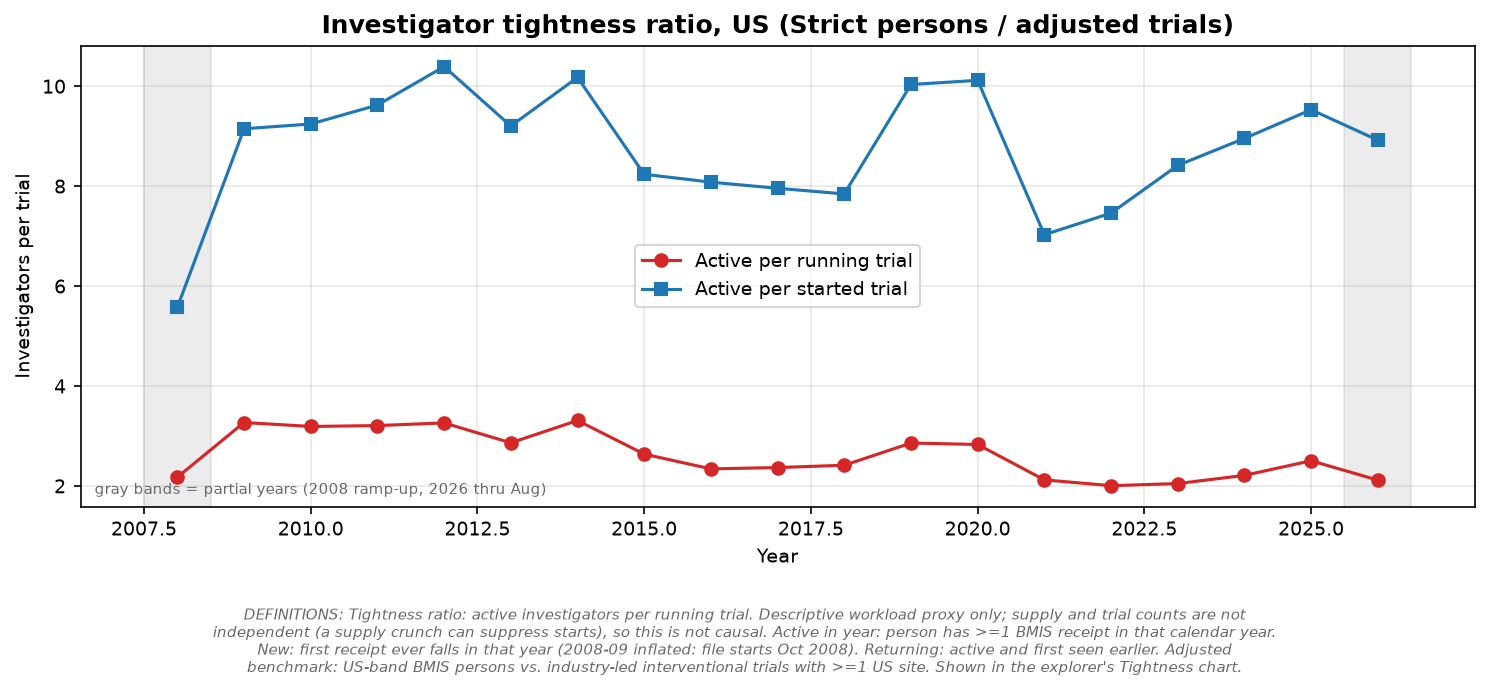
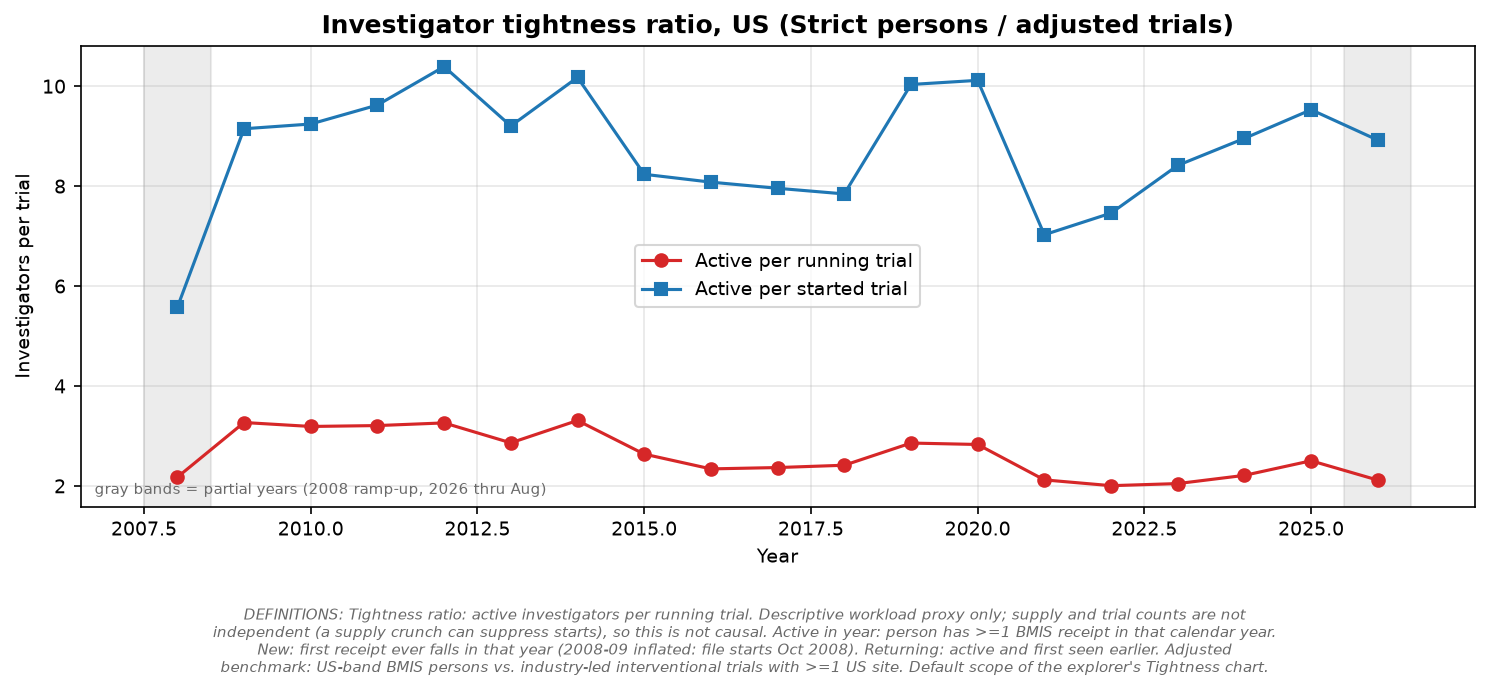
Tightness scope toggle (adjusted/unadjusted)
Explorer Tightness chart and KPI gain an Adjusted/Unadjusted toggle.
Unadjusted is starts-only (running-trial denominator exists for the
US subset only). Scope definitions updated in the pipeline and baked
into the manifest + static chart captions. Full pipeline rebuild
green (217s); revert timestamp-only deck/parquet churn.

Changed region(s): [[0.1545, 0.9408, 0.8341, 0.9711]]

diff --git a/explorer/src/App.tsx b/explorer/src/App.tsx
@@ -220,6 +220,7 @@ export default function App() {
   const [newret, setNewret] = useState<{ x: number; bottom: number; top: number }[]>([]);
 
   const [tight, setTight] = useState<LineSeries[]>([]);
+  const [tightScope, setTightScope] = useState<'adjusted' | 'unadjusted'>('adjusted');
   const [bins, setBins] = useState<{ category: string; v: number }[]>([]);
   const [pbins, setPbins] = useState<{ category: string; v: number }[]>([]);
   const [ret, setRet] = useState<VintageRow[]>([]);
@@ -330,15 +331,16 @@ export default function App() {
               ` NULLIF(CAST(SUM(n_active) AS DOUBLE), 0) AS v FROM active_bins` +
               ` WHERE version = '${v}' AND year = ${LATEST_FULL}`,
           ),
-          query<{ v: number | null }>(
-            `SELECT CAST(per_running AS DOUBLE) AS v FROM tightness WHERE version = '${v}'` +
-              ` AND scope = 'adjusted' AND year = ${LATEST_FULL}`,
+          query<{ pr: number | null; ps: number | null }>(
+            `SELECT CAST(per_running AS DOUBLE) AS pr, CAST(per_start AS DOUBLE) AS ps` +
+              ` FROM tightness WHERE version = '${v}'` +
+              ` AND scope = '${tightScope}' AND year = ${LATEST_FULL}`,
           ),
 
           query<TightRow>(
             `SELECT CAST(year AS INTEGER) AS y, CAST(per_running AS DOUBLE) AS pr,` +
               ` CAST(per_start AS DOUBLE) AS ps FROM tightness WHERE version = '${v}'` +
-              ` AND scope = 'adjusted' AND year BETWEEN ${y0} AND ${y1} ORDER BY 1`,
+              ` AND scope = '${tightScope}' AND year BETWEEN ${y0} AND ${y1} ORDER BY 1`,
           ),
           query<BinRow>(
             `SELECT CAST(bin AS VARCHAR) AS bin, CAST(SUM(n_active) AS DOUBLE) AS n` +
@@ -401,12 +403,18 @@ export default function App() {
           active09: num0(k[0]?.active09),
           nnew: num0(k[0]?.nnew),
           oneTrial: num(ot[0]?.v),
-          tight: num(ti[0]?.v),
+          tight: num(tightScope === 'adjusted' ? ti[0]?.pr : ti[0]?.ps),
         });
-        setTight([
-          { label: 'Active per running trial', color: '#d62728', points: tser.map((r) => ({ x: r.y, y: num(r.pr) })) },
-          { label: 'Active per started trial', color: '#1f77b4', points: tser.map((r) => ({ x: r.y, y: num(r.ps) })) },
-        ]);
+        setTight(
+          tightScope === 'adjusted'
+            ? [
+                { label: 'Active per running trial', color: '#d62728', points: tser.map((r) => ({ x: r.y, y: num(r.pr) })) },
+                { label: 'Active per started trial', color: '#1f77b4', points: tser.map((r) => ({ x: r.y, y: num(r.ps) })) },
+              ]
+            : [
+                { label: 'Active per started trial', color: '#1f77b4', points: tser.map((r) => ({ x: r.y, y: num(r.ps) })) },
+              ],
+        );
         const binOrder = [...Array.from({ length: 14 }, (_, i) => String(i + 1)), '15+'];
         setBins(
           bn
@@ -470,7 +478,7 @@ export default function App() {
     return () => {
       cancelled = true;
     };
-  }, [status, version, band, y0, y1, leaderGeo, leaderSort, demo]);
+  }, [status, version, band, y0, y1, leaderGeo, leaderSort, demo, tightScope]);
 
 
   const runSearch = async (override?: string) => {
@@ -782,9 +790,11 @@ export default function App() {
           <span className="kpi-label">{VERSION_LABEL[version]} persons</span>
         </div>
         <div className="kpi">
-          <span className="kpi-label">Active per running trial, US</span>
+          <span className="kpi-label">
+            {tightScope === 'adjusted' ? 'Active per running trial, US' : 'Active per started trial, global'}
+          </span>
           <span className="kpi-value">{kpi && kpi.tight !== null ? kpi.tight.toFixed(2) : '—'}</span>
-          <span className="kpi-label">adjusted scope</span>
+          <span className="kpi-label">{tightScope} scope</span>
         </div>
       </section>
 
@@ -824,10 +834,30 @@ export default function App() {
             <p className="muted">Run the pipeline for trial data.</p>
           ) : (
             <>
+              <div className="filters">
+                <div className="seg" role="group" aria-label="Tightness scope">
+                  <button
+                    className={tightScope === 'adjusted' ? 'active' : ''}
+                    onClick={() => setTightScope('adjusted')}
+                    title="US-band persons vs trials with a US site"
+                  >
+                    Adjusted
+                  </button>
+                  <button
+                    className={tightScope === 'unadjusted' ? 'active' : ''}
+                    onClick={() => setTightScope('unadjusted')}
+                    title="All BMIS persons vs all global industry trials"
+                  >
+                    Unadjusted
+                  </button>
+                </div>
+              </div>
               <MultiLineChart series={tight} />
               <p className="caption">
-                US-site industry trials (adjusted scope). Descriptive workload proxy only — supply and
-                trial counts are not independent.
+                Adjusted: US-band persons vs industry trials with ≥1 US site. Unadjusted: all
+                BMIS persons vs all global industry trials (starts only — the running-trial
+                denominator needs per-trial dates, computed for the US subset only). Descriptive
+                workload proxy only — supply and trial counts are not independent.
               </p>
             </>
           )}

diff --git a/pipeline/aggregate.py b/pipeline/aggregate.py
@@ -48,12 +48,12 @@ DEFINITIONS = {
     "scope_unadjusted": (
         "Unadjusted benchmark: all TYPE=CI BMIS persons vs. all global "
         "industry-led interventional trial starts (clinicaltrials.gov). "
-        "Static charts only; the explorer shows adjusted scope."
+        "Static charts and the explorer Tightness scope toggle."
     ),
     "scope_adjusted": (
         "Adjusted benchmark: US-band BMIS persons vs. industry-led "
-        "interventional trials with >=1 US site. Shown in the explorer's "
-        "Tightness chart."
+        "interventional trials with >=1 US site. Default scope of the "
+        "explorer's Tightness chart."
     ),
     "eu_2021": (
         "2021*: first full year after 2019, when signing Form FDA 1572 was "
